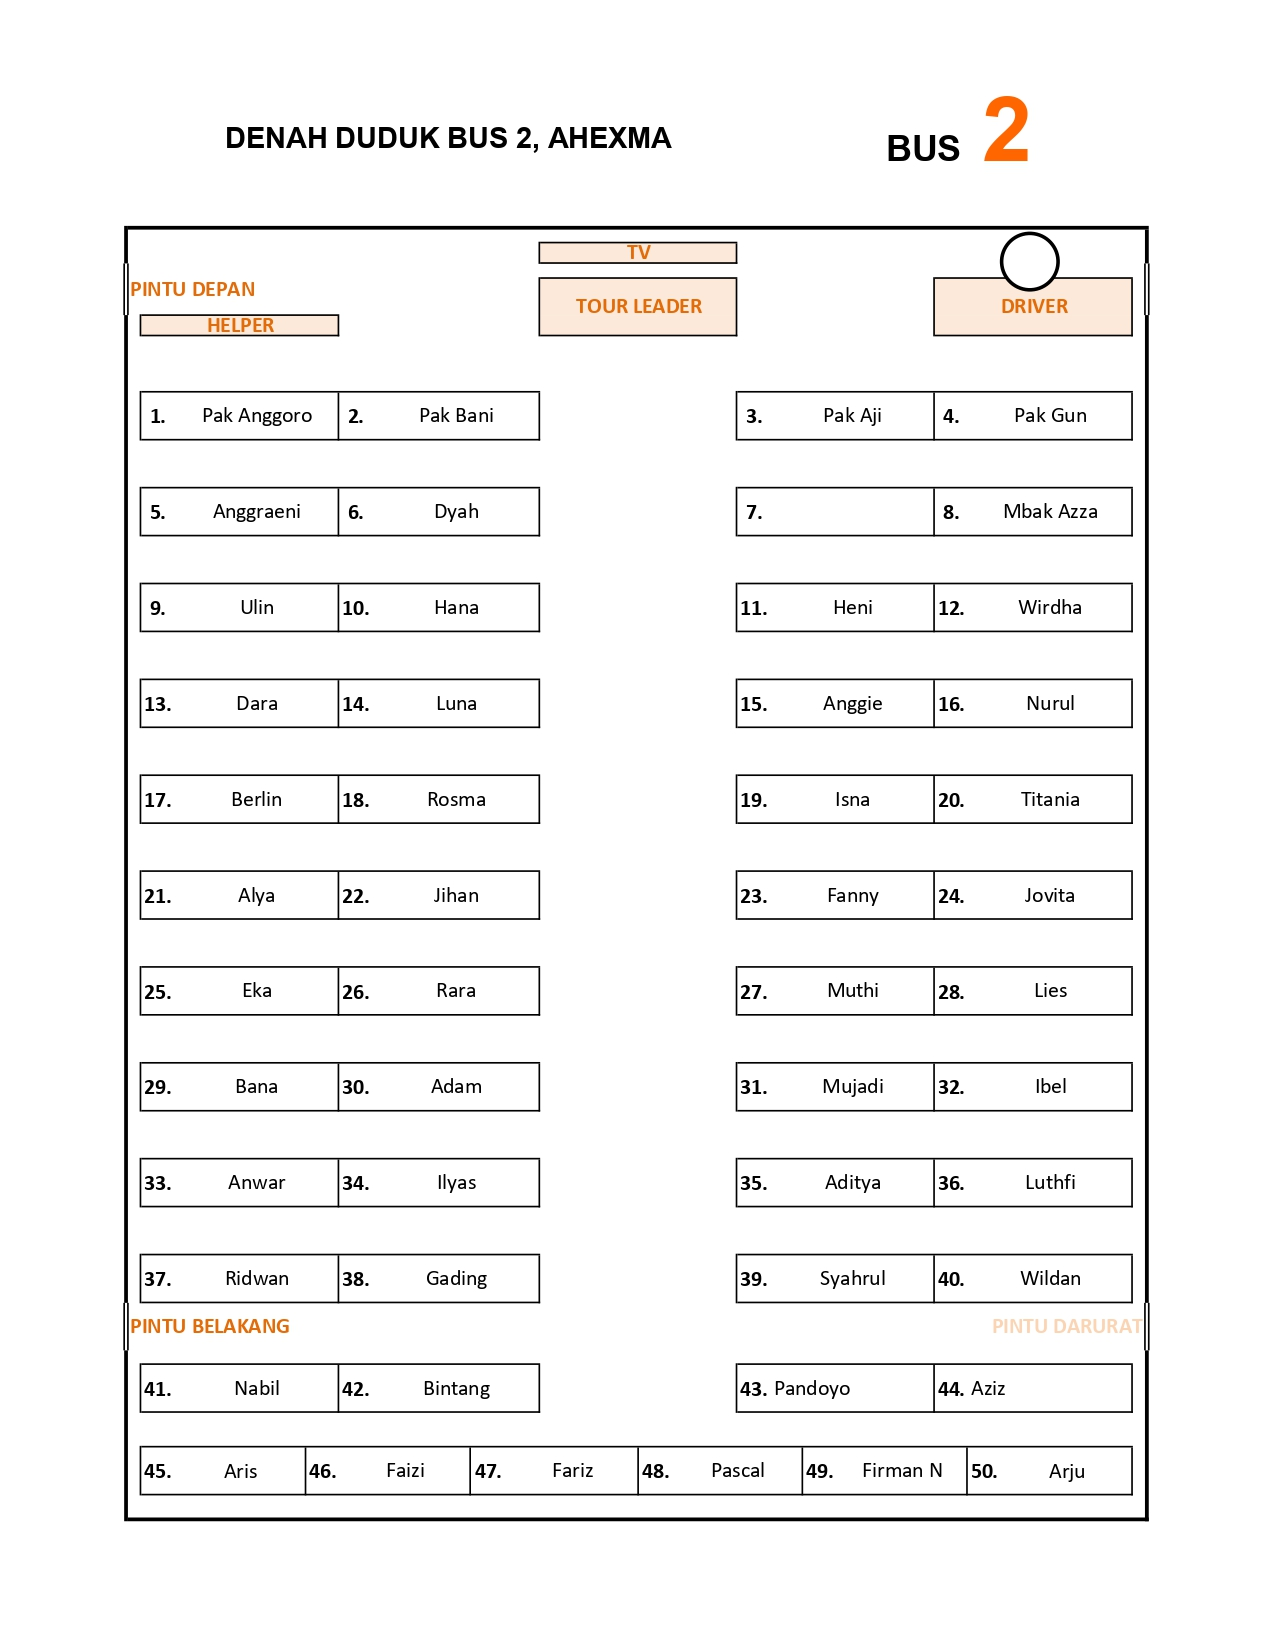
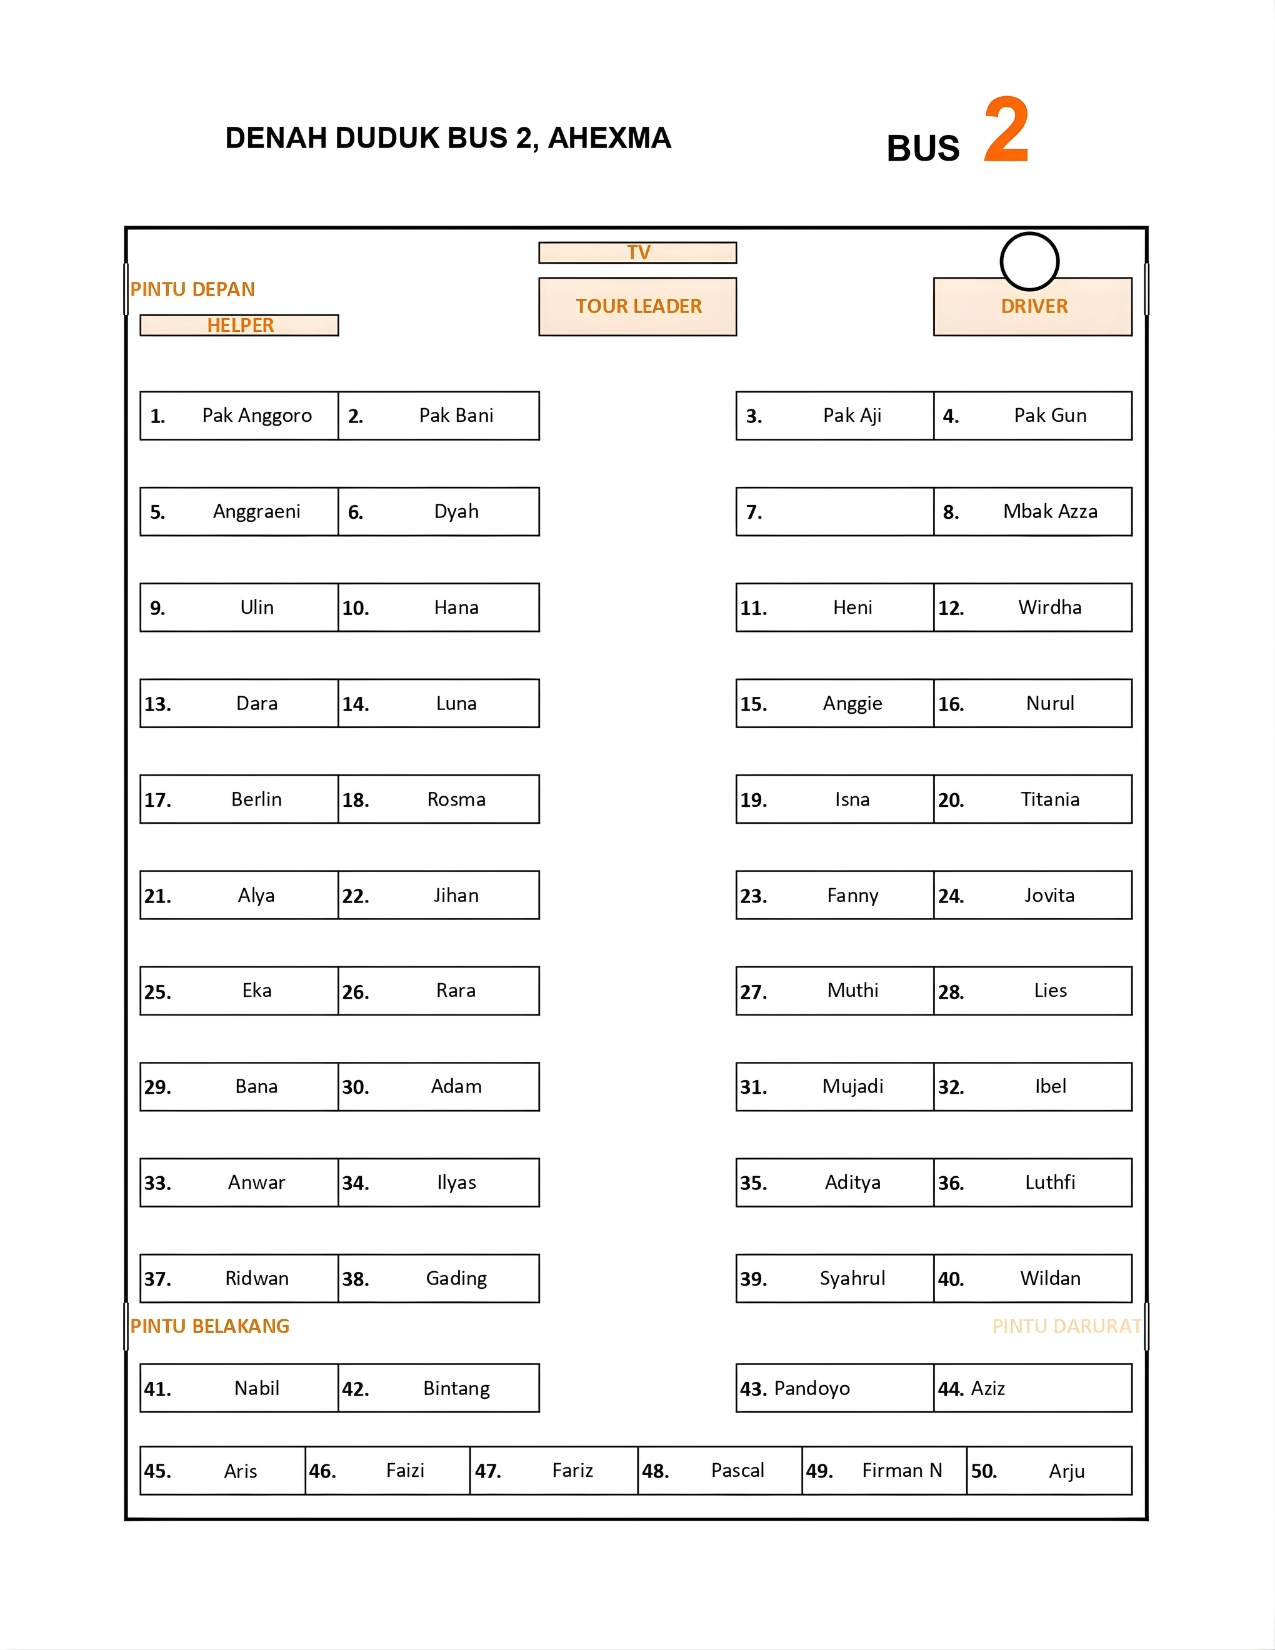
05

Changed region(s): [[0.0918, 0.1545, 0.1224, 0.1855]]

diff --git a/ahexma.com/v5/blog/2025/desember/30/pembagian-kursi-bus/index.html b/ahexma.com/v5/blog/2025/desember/30/pembagian-kursi-bus/index.html
@@ -2032,63 +2032,41 @@
 
 
 									<div class="post_img static">
-										<a href="../../../../../../../grandconference.b-cdn.net/v5/wp-content/uploads/2017/02/Coming Soon 01.jpg"
+										<a href="../../../../../../../grandconference.b-cdn.net/v5/wp-content/uploads/2017/02/Denah 01.jpg"
 											class="img_frame">
 											<img width="1440" height="960"
-												src="../../../../../../../grandconference.b-cdn.net/v5/wp-content/uploads/2017/02/Coming Soon 01.jpg"
+												src="../../../../../../../grandconference.b-cdn.net/v5/wp-content/uploads/2017/02/Denah 01.jpg"
 												alt="" class="" />
 										</a>
 									</div>
 
 
-									<p class="p1"><span class="s1">Meh synth Schlitz, tempor duis single-origin coffee
-											ea next level ethnic fingerstache fanny pack nostrud. Photo booth anim 8-bit
-											hella, PBR 3 wolf moon beard Helvetica. Salvia esse nihil, flexitarian
-											Truffaut synth art party deep v chillwave. Seitan High Life reprehenderit
-											consectetur cupidatat kogi. Et leggings fanny pack, elit bespoke vinyl art
-											party Pitchfork selfies master cleanse Kickstarter seitan retro. Drinking
-											vinegar stumptown yr pop-up artisan sunt. Deep v cliche lomo biodiesel
-											Neutra selfies. Shorts fixie consequat flexitarian four loko tempor duis
-											single-origin coffee. Banksy, elit small batch freegan sed.</span></p>
+									<p class="p1"><span class="s1">Berikut ini adalah informasi resmi mengenai pembagian kursi (plotingan) untuk armada Bus 1 dan Bus 2 dalam kegiatan perjalanan Ahexma. Kami mohon kepada seluruh peserta untuk memeriksa nomor kursi masing-masing dan menempati kursi sesuai dengan denah yang telah ditentukan demi kelancaran dan ketertiban selama perjalanan.
+
+Apabila terdapat ketidaksesuaian atau kendala teknis di lapangan, silakan menghubungi Penanggung Jawab (PJ) Bus masing-masing.
+
+DAFTAR PENUMPANG: BUS 01
+Penanggung Jawab (PJ): Hasan & Dimas.</span></p>
 									<div id="attachment_17" style="width: 1034px" class="wp-caption alignnone"><img
 											fetchpriority="high" decoding="async"
 											aria-describedby="caption-attachment-17" class="wp-image-17 size-large"
-											src="../../../../../../../grandconference.b-cdn.net/v5/wp-content/uploads/2017/02/Coming Soon 02.jpg"
+											src="../../../../../../../grandconference.b-cdn.net/v5/wp-content/uploads/2017/02/Denah 02.jpg"
 											width="1024" height="683">
-										<p id="caption-attachment-17" class="wp-caption-text">The road to success and
-											the road to failure are almost exactly the same</p>
+										<p id="caption-attachment-17" class="wp-caption-text">...</p>
 									</div>
-									<p class="p1"><span class="s1">Exercitation photo booth stumptown tote bag Banksy,
-											elit small batch freegan sed. Craft beer elit seitan exercitation, photo
-											booth et 8-bit kale chips proident chillwave deep v laborum. Aliquip veniam
-											delectus, Marfa eiusmod Pinterest in do umami readymade swag. Selfies iPhone
-											Kickstarter, drinking vinegar jean vinegar stumptown yr pop-up artisan sunt.
-											Craft beer elit seitan exercitation, photo booth,</span></p>
+									<p class="p1"><span class="s1">...,</span></p>
 									<div id="attachment_11" style="width: 1034px" class="wp-caption alignnone"><img
 											decoding="async" aria-describedby="caption-attachment-11"
 											class="size-large wp-image-11"
-											src="../../../../../../../grandconference.b-cdn.net/v5/wp-content/uploads/2017/02/Coming Soon 03.jpg"
+											src="../../../../../../../grandconference.b-cdn.net/v5/wp-content/uploads/2017/02/Denah 02.jpg"
 											alt="" width="1024" height="683">
-										<p id="caption-attachment-11" class="wp-caption-text">Emotional discomfort, when
-											accepted, rises, crests and falls in a series of waves.</p>
+										<p id="caption-attachment-11" class="wp-caption-text">...</p>
 									</div>
 									<blockquote>
-										<p>Design is a funny word. Some people think design means how it looks. But of
-											course, if you dig deeper, it&#8217;s really how it works.</p>
+										<p>Proses Pengembangan&#8217;!!</p>
 									</blockquote>
-									<p class="p1"><span class="s1">Foam padding in the insoles leather finest quality
-											staple flat slip-on design pointed toe off-duty shoe. Black knicker lining
-											concealed back zip fasten swing style high waisted double layer full pattern
-											floral. Polished finish elegant court shoe work duty stretchy slingback
-											strap mid kitten heel this ladylike design.</span></p>
-									<p class="p1"><span class="s1">See-through delicate embroidered organza blue lining
-											luxury acetate-mix stretch pleat detailing. Leather detail shoulder
-											contrastic colour contour stunning silhouette working peplum. Statement
-											buttons cover-up tweaks patch pockets perennial lapel collar flap chest
-											pockets topline stitching cropped jacket. Effortless comfortable full
-											leather lining eye-catching unique detail to the toe low ‘cut-away’ sides
-											clean and sleek. Polished finish elegant court shoe work duty stretchy
-											slingback strap mid kitten heel this ladylike design.</span></p>
+									<p class="p1"><span class="s1">Coming Soon.</span></p>
+									<p class="p1"><span class="s1">Coming Soon.</span></p>
 
 									<div class="post_excerpt post_tag">
 										<a href="https://ahexma.com/v5/blog/tag/entrepreneur/">#entrepreneur</a><a
